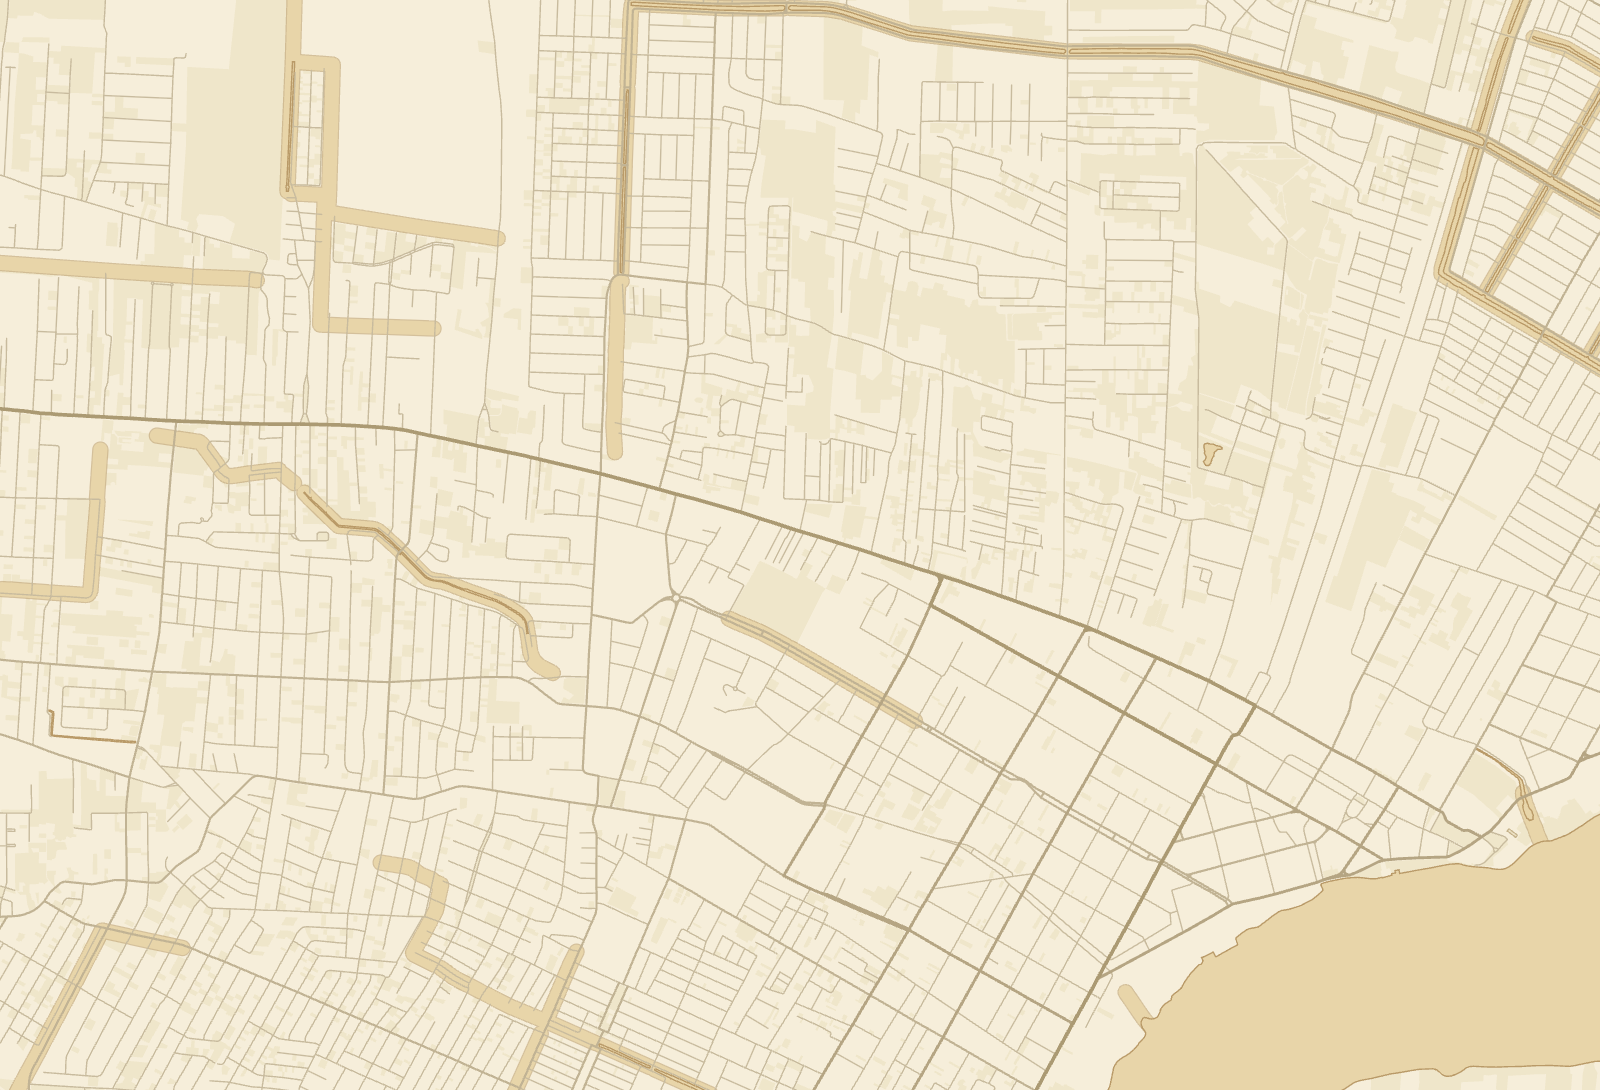
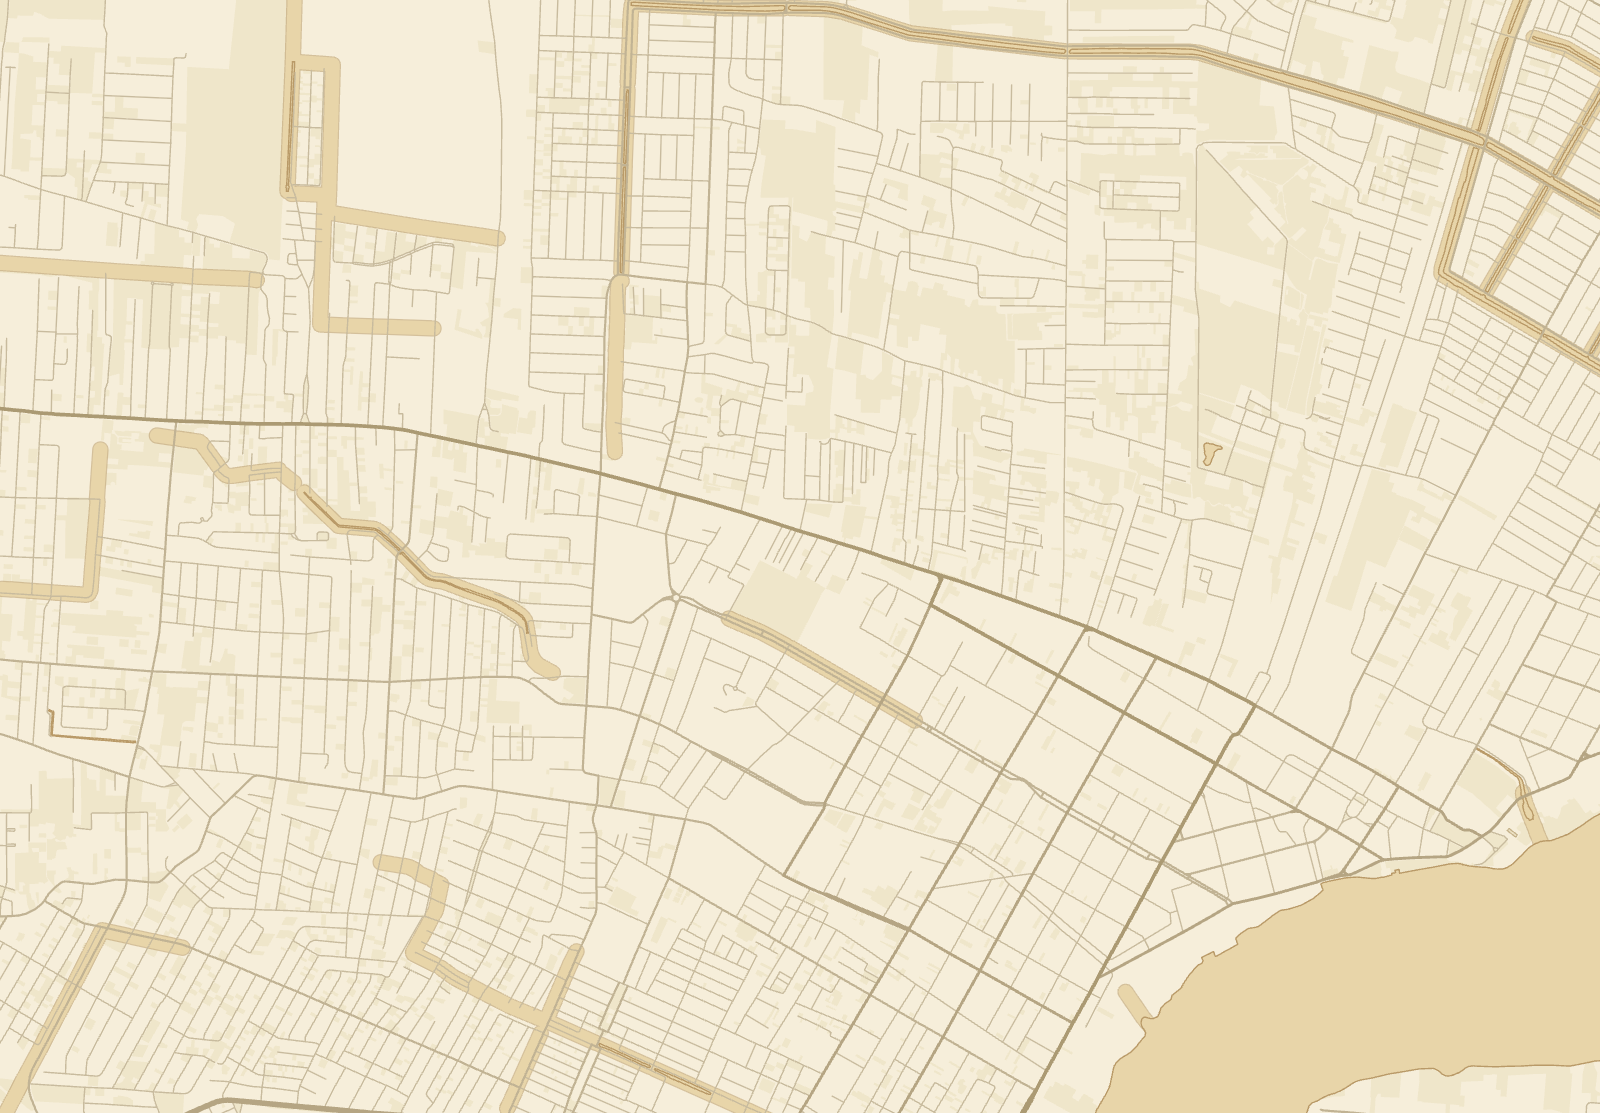
Paramaribo ja Santo Domingo: iPhone-reunavara mitatuilla siirtymillä (Fort Zeelandia kokoruutuvihjeen alta, Ozama 1 px reunasta) – tarkista iphone+ipad 0 rikettä

diff --git a/js/packs/maakartat.js b/js/packs/maakartat.js
@@ -20675,12 +20675,7 @@ export const KAUPUNKIKARTAT = {
       + 'johdolla, ja keskellä kohoaa Torre del Homenaje -torni. Santo Domingon katedraali on '
       + 'goottilaistyylinen ja sen holvit ovat ruodeholveja. Kartan kohteista pääsee lukemaan '
       + 'lisää napauttamalla.',
-    rajat: {
-      pohjoinen: 18.4858,
-      etela: 18.4501,
-      lansi: -69.9402,
-      ita: -69.878,
-    },
+    rajat: { pohjoinen: 18.4864, etela: 18.4495, lansi: -69.9402, ita: -69.8761 },
     kohteet: [
       {
         nimi: 'Ozaman linnoitus',
@@ -21187,12 +21182,7 @@ export const KAUPUNKIKARTAT = {
       + 'vuonna 1667. Linnoituksessa toimii Surinamen museo. Palmupuisto on linnoituksen '
       + 'pohjoispuolella, ja sen korkeat kuningaspalmut ovat puiston tunnusmerkki. Kartan '
       + 'kohteista pääsee lukemaan lisää napauttamalla.',
-    rajat: {
-      pohjoinen: 5.8583,
-      etela: 5.8163,
-      lansi: -55.2078,
-      ita: -55.1458,
-    },
+    rajat: { pohjoinen: 5.8583, etela: 5.8154, lansi: -55.2078, ita: -55.1458 },
     kohteet: [
       {
         nimi: 'Fort Zeelandia',
